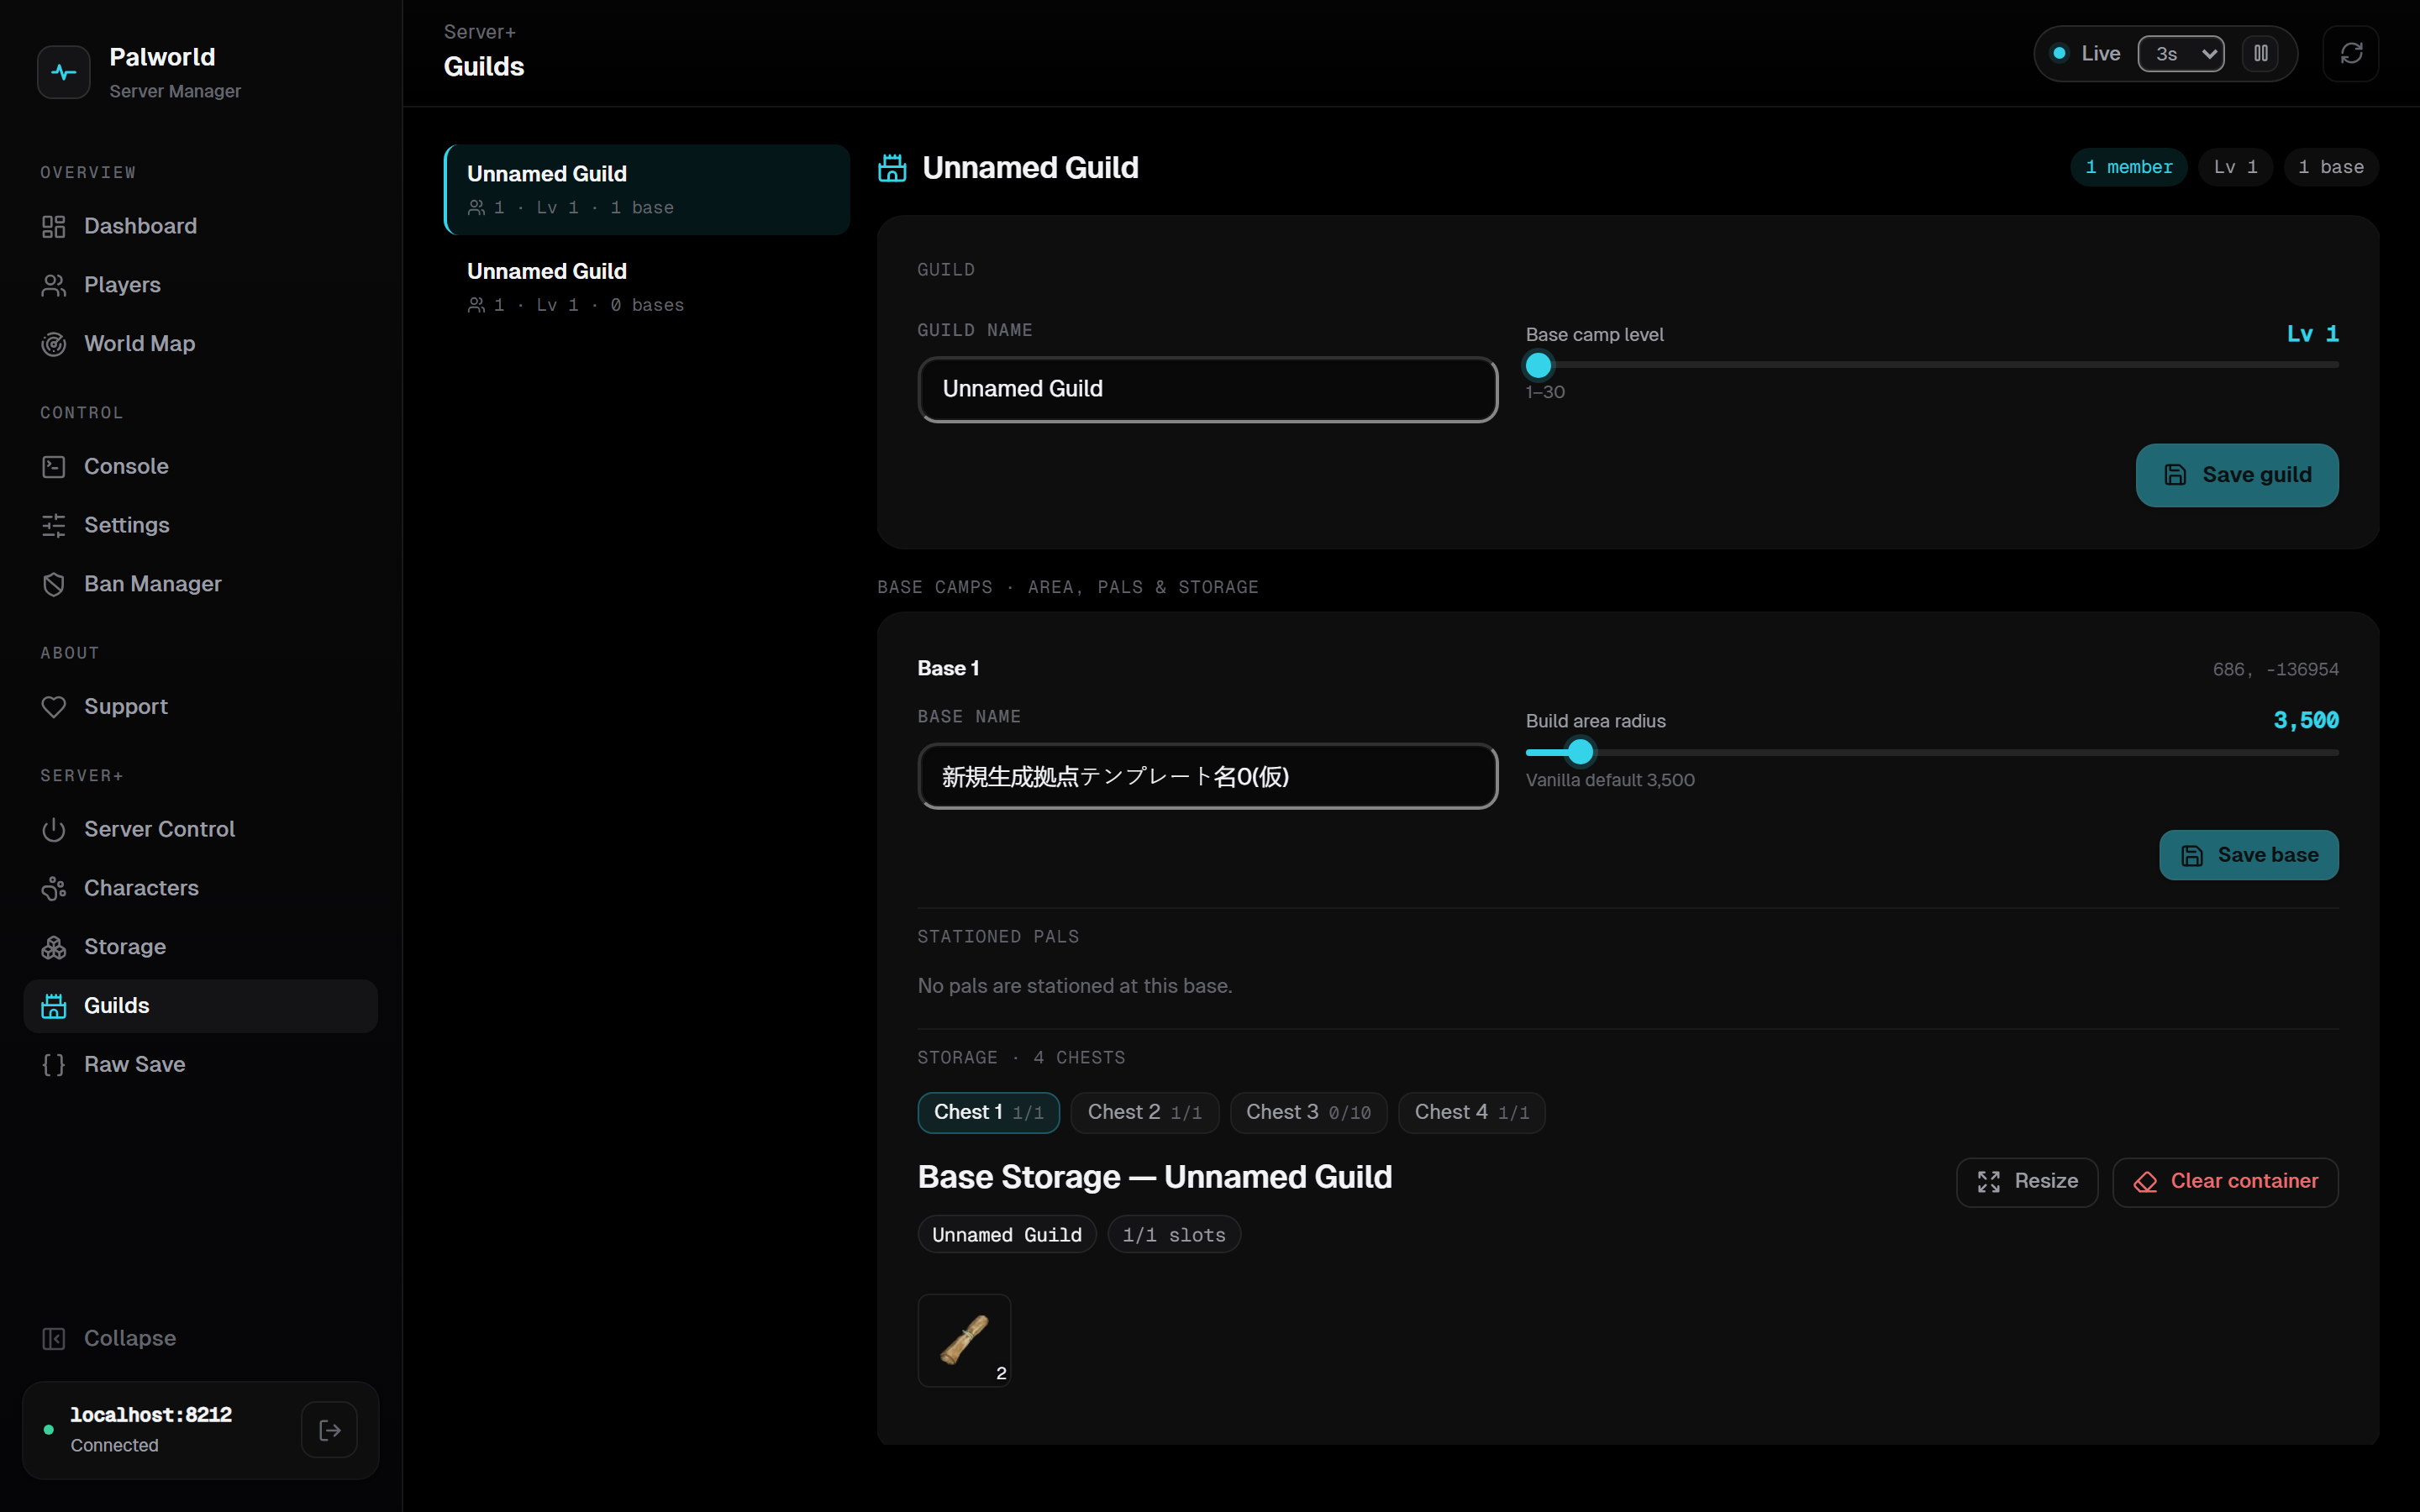
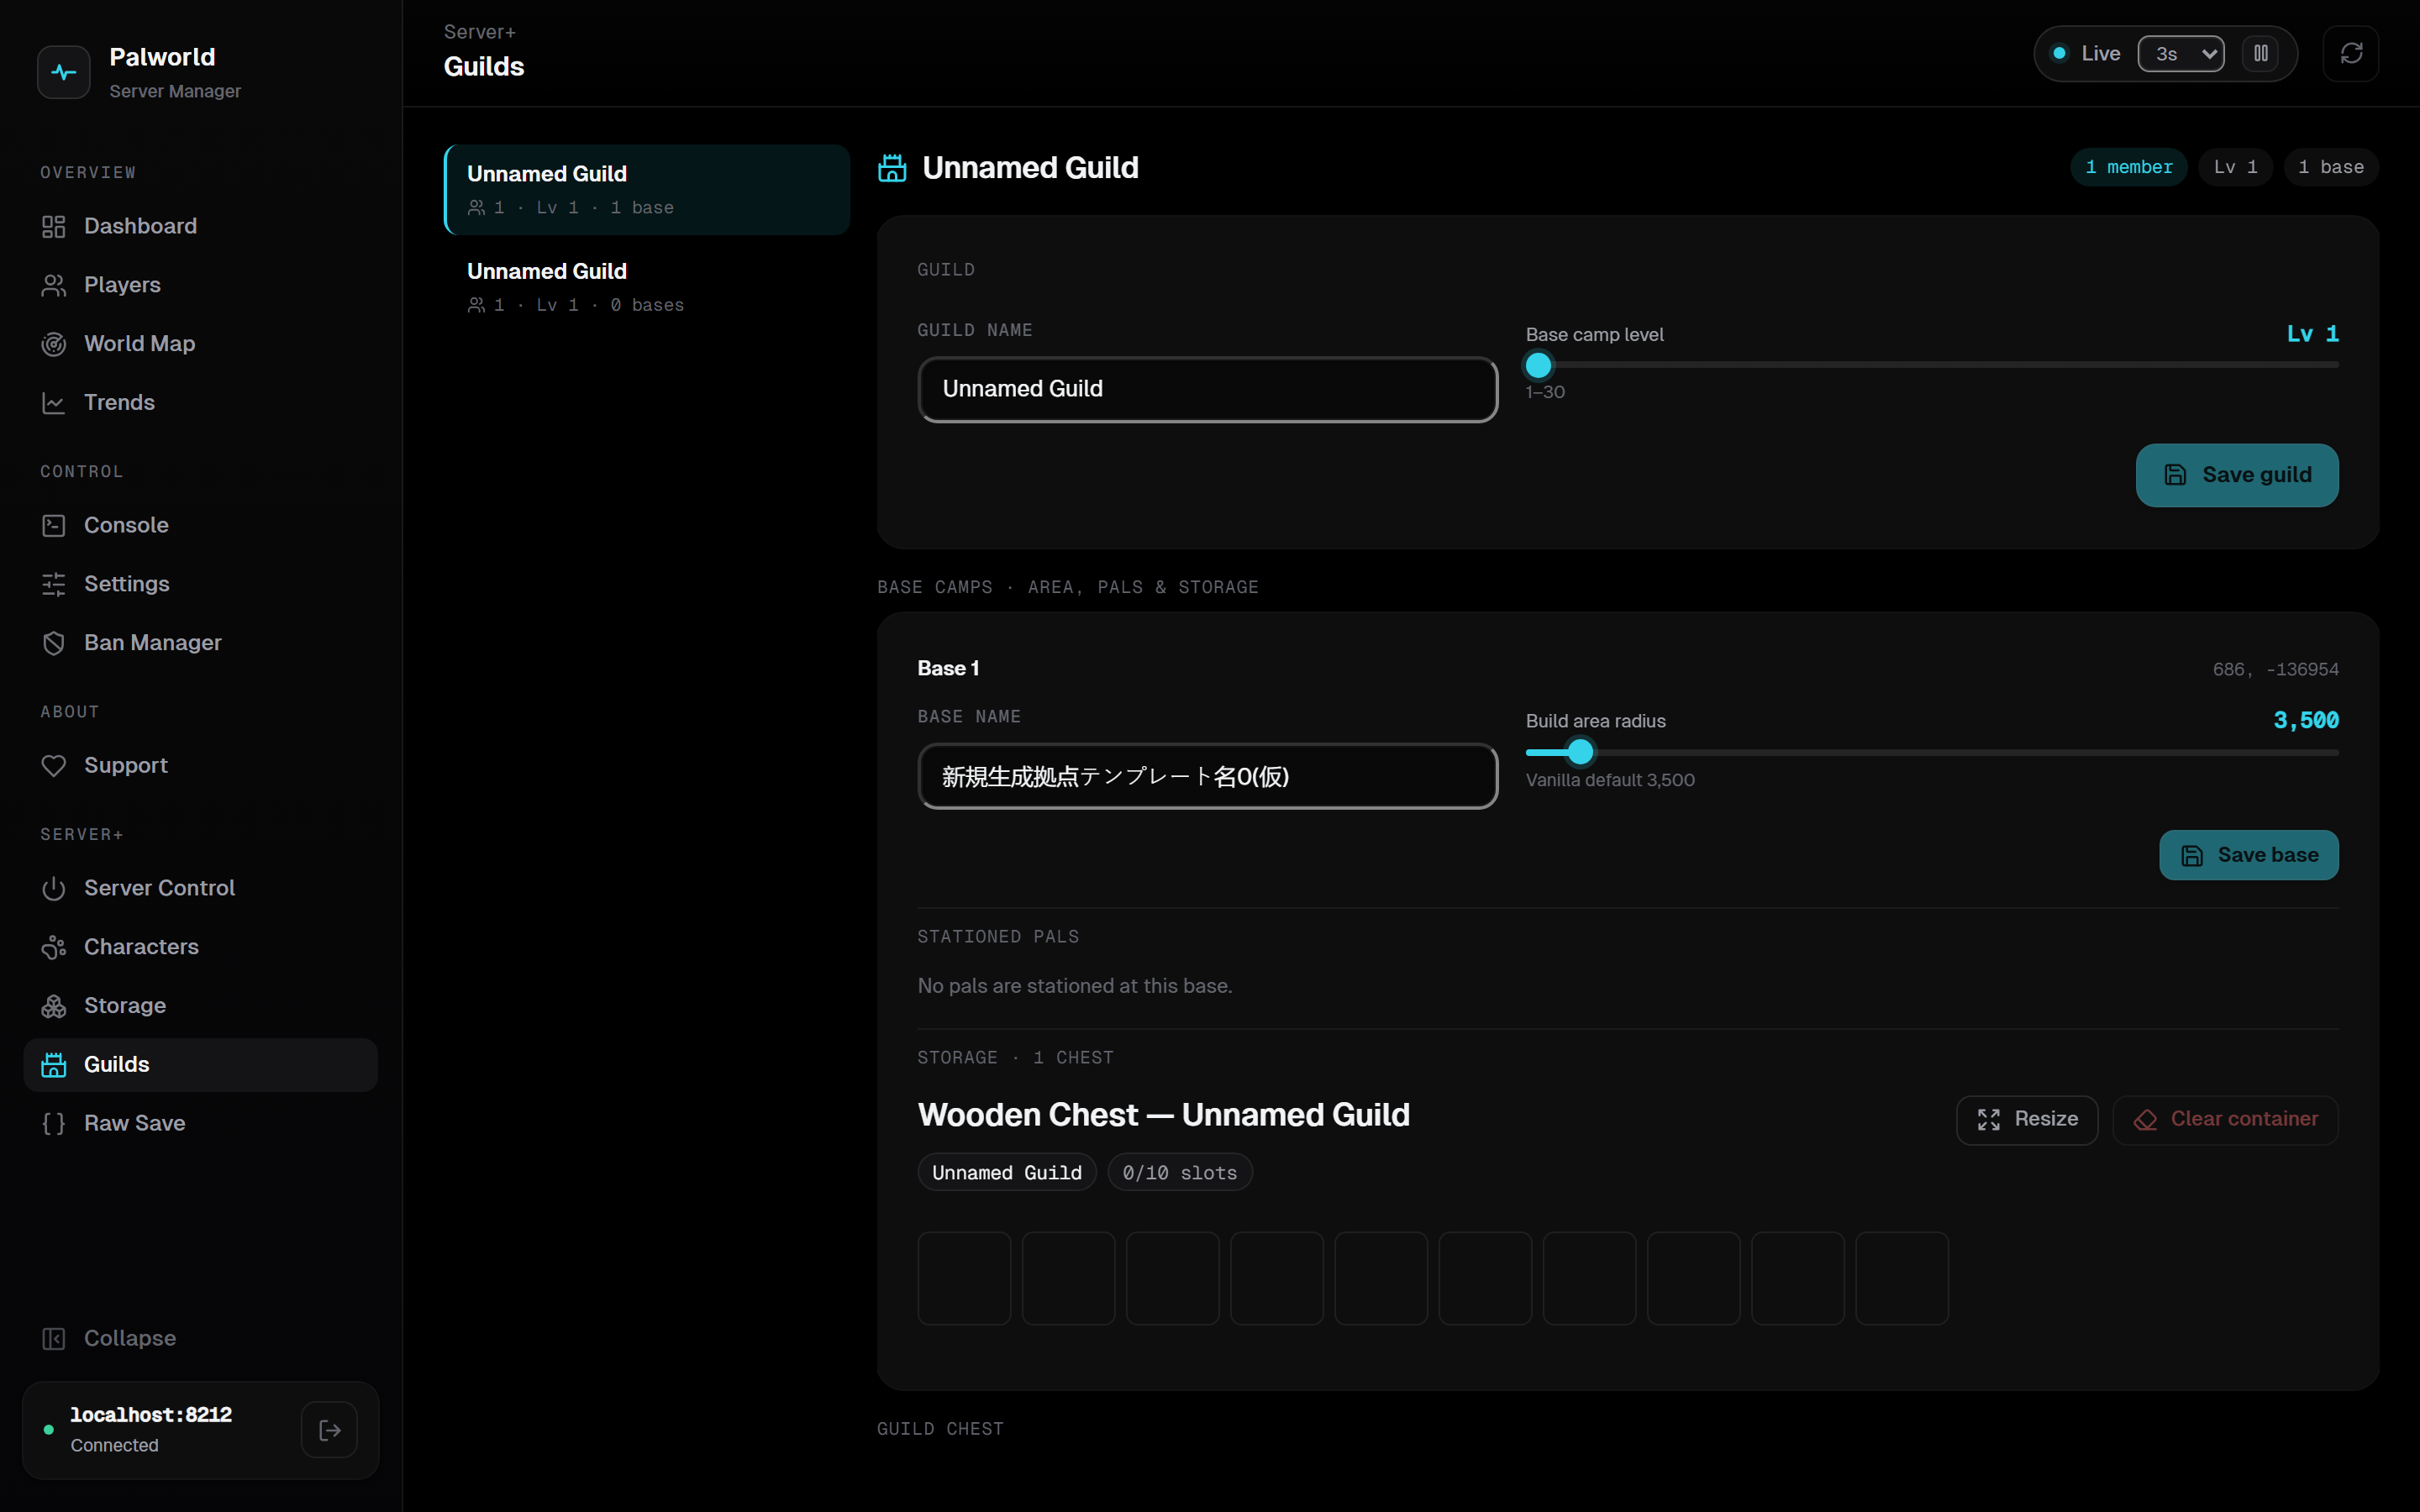
fix(guilds): real names for base storage chests, and drop ground loot
Base storage tabs/headers said "Chest 1/2/3/4" and included dropped ground
items. Now:
- The decoder captures each storage object's MapObjectId (the build-object
  type, e.g. "ItemChest") and excludes CommonDropItem3D — ground-loot pickups
  that carry an ItemContainer module but aren't storage the owner manages.
- The bridge surfaces object_name per base-storage container; the UI shows the
  real name ("Wooden Chest") in the chest tabs and the pane header, falling back
  to "Chest N" only when the type is unknown.

Adds chestName() (known-name map + CamelCase humanize) with tests, and a decoder
test asserting MapObjectId capture.

diff --git a/src/lib/containers.ts b/src/lib/containers.ts
@@ -17,13 +17,32 @@ const BAG: Record<
   food_equip: { label: "Food", order: 4 },
 };
 
+/** Friendly in-game names for base-storage build objects (their `MapObjectId`). */
+const OBJECT_NAMES: Record<string, string> = {
+  ItemChest: "Wooden Chest",
+  DispenseItem: "Feed Box",
+};
+
+/**
+ * Real display name of a base-storage chest from its build-object `MapObjectId`
+ * (e.g. `ItemChest` → "Wooden Chest"), or `null` if unknown. Falls back to
+ * humanizing the raw id (split CamelCase, drop a trailing dimension suffix).
+ */
+export function chestName(objectName?: string): string | null {
+  if (!objectName) return null;
+  if (OBJECT_NAMES[objectName]) return OBJECT_NAMES[objectName];
+  const base = objectName.replace(/\d+[dD]?$/, "").replace(/_+/g, " ").trim();
+  return (base || objectName).replace(/([a-z0-9])([A-Z])/g, "$1 $2").trim();
+}
+
 /** Rail/header label for a container. */
 export function containerLabel(c: ContainerInfo): string {
   if (c.kind === "guild_chest") {
     return c.guild_name ? `Guild Chest — ${c.guild_name}` : "Guild Chest";
   }
   if (c.kind === "base_storage") {
-    return c.guild_name ? `Base Storage — ${c.guild_name}` : "Base Storage";
+    const name = chestName(c.object_name) ?? "Base Storage";
+    return c.guild_name ? `${name} — ${c.guild_name}` : name;
   }
   return BAG[c.kind]?.label ?? c.label;
 }

diff --git a/src/lib/containers.test.ts b/src/lib/containers.test.ts
@@ -1,5 +1,6 @@
 import { describe, expect, it } from "vitest";
 import {
+  chestName,
   containerLabel,
   containerOwner,
   groupContainers,
@@ -79,6 +80,20 @@ describe("container labels", () => {
     expect(containerOwner(container({ kind: "common", owner_name: "Riko" }))).toBe("Riko");
     expect(containerOwner(container({ kind: "guild_chest", guild_name: "Night Raid" }))).toBe("Night Raid");
     expect(containerOwner(container({ kind: "common" }))).toBe("Unknown player");
+  });
+});
+
+describe("chestName", () => {
+  it("maps known build objects to their in-game names", () => {
+    expect(chestName("ItemChest")).toBe("Wooden Chest");
+    expect(chestName("DispenseItem")).toBe("Feed Box");
+  });
+  it("humanizes unknown ids (CamelCase split, trailing dimension dropped)", () => {
+    expect(chestName("RefinedMetalChest")).toBe("Refined Metal Chest");
+    expect(chestName("CommonDropItem3D")).toBe("Common Drop Item");
+  });
+  it("returns null for a missing object name", () => {
+    expect(chestName(undefined)).toBeNull();
   });
 });
 

diff --git a/src/screens/Guilds.tsx b/src/screens/Guilds.tsx
@@ -17,6 +17,7 @@ import { EmptyState } from "../components/EmptyState";
 import { Field, Input } from "../components/Field";
 import { Skeleton } from "../components/Skeleton";
 import { ContainerPane } from "./Storage";
+import { chestName } from "../lib/containers";
 import {
   useBridge,
   useBridgeContainers,
@@ -391,7 +392,7 @@ function BaseSection({
                   className={i === storeIdx ? "is-on" : ""}
                   onClick={() => setStoreIdx(i)}
                 >
-                  Chest {i + 1}
+                  {chestName(s.object_name) ?? `Chest ${i + 1}`}
                   <span>
                     {s.used}/{s.slot_num}
                   </span>

diff --git a/src/types/bridge.ts b/src/types/bridge.ts
@@ -162,6 +162,9 @@ export interface ContainerInfo {
   /** Vanilla default slot count for this kind, when reliably known (so the UI
    *  can flag a container resized off its default). Absent when it varies. */
   default_slot_num?: number;
+  /** Build-object type of a base storage chest (e.g. "ItemChest"), for its real
+   *  name. Only present for base storage. */
+  object_name?: string;
   used: number;
   slots: ItemContainerSlot[];
 }

diff --git a/bridge/src/save/map_object.rs b/bridge/src/save/map_object.rs
@@ -28,18 +28,31 @@ use super::reader::Reader;
 
 const ITEM_CONTAINER_MODULE: &str = "EPalMapObjectConcreteModelModuleType::ItemContainer";
 
-/// Build a `base_id → [storage container id]` index from `MapObjectSaveData`.
-/// A non-array property, or objects missing the fields, are skipped rather than
-/// failing the load.
-pub fn decode_base_storage(map_objects: &Property) -> HashMap<Uuid, Vec<Uuid>> {
-    let mut out: HashMap<Uuid, Vec<Uuid>> = HashMap::new();
+/// `MapObjectId`s that carry an ItemContainer module but aren't base storage the
+/// owner manages — dropped ground loot. Excluded from the storage list.
+const EXCLUDED_OBJECTS: &[&str] = &["CommonDropItem3D"];
+
+/// Index of base storage: `base_id → [container id]`, plus each container's
+/// `MapObjectId` (the build-object identifier, e.g. `WoodChest`) for a real name.
+pub struct BaseStorage {
+    /// Which storage containers belong to each base camp.
+    pub by_base: HashMap<Uuid, Vec<Uuid>>,
+    /// Container id → its map object's `MapObjectId` (build-object type).
+    pub names: HashMap<Uuid, String>,
+}
+
+/// Build the base-storage index from `MapObjectSaveData`. A non-array property,
+/// or objects missing the fields, are skipped rather than failing the load.
+pub fn decode_base_storage(map_objects: &Property) -> BaseStorage {
+    let mut by_base: HashMap<Uuid, Vec<Uuid>> = HashMap::new();
+    let mut names: HashMap<Uuid, String> = HashMap::new();
 
     let values = match map_objects {
         Property::Array {
             value: ArrayValue::Structs { values, .. },
             ..
         } => values,
-        _ => return out,
+        _ => return BaseStorage { by_base, names },
     };
 
     for v in values {
@@ -57,6 +70,14 @@ pub fn decode_base_storage(map_objects: &Property) -> HashMap<Uuid, Vec<Uuid>> {
         else {
             continue;
         };
+
+        // The build-object identifier (e.g. "ItemChest") — the object's real name.
+        let object_id = obj.get("MapObjectId").and_then(key_str).map(str::to_string);
+        // Ground-loot pickups also carry an ItemContainer module tied to a base,
+        // but they aren't storage the owner manages — skip them.
+        if object_id.as_deref().is_some_and(|id| EXCLUDED_OBJECTS.contains(&id)) {
+            continue;
+        }
 
         // Its ItemContainer module's target container (guid at offset 0).
         let Some(module_map) = obj
@@ -78,11 +99,14 @@ pub fn decode_base_storage(map_objects: &Property) -> HashMap<Uuid, Vec<Uuid>> {
                 .and_then(Property::as_bytes)
                 .and_then(|raw| guid_at(raw, 0))
             {
-                out.entry(base_id).or_default().push(cid);
+                by_base.entry(base_id).or_default().push(cid);
+                if let Some(name) = &object_id {
+                    names.insert(cid, name.clone());
+                }
             }
         }
     }
-    out
+    BaseStorage { by_base, names }
 }
 
 /// The 16-byte GUID at `offset` in `raw` (same LE→BE word swap as
@@ -147,6 +171,7 @@ mod tests {
             vec![
                 ("Model".to_string(), model),
                 ("ConcreteModel".to_string(), concrete),
+                ("MapObjectId".to_string(), Property::Str("WoodChest".to_string())),
             ]
             .into_iter()
             .collect(),
@@ -163,12 +188,15 @@ mod tests {
 
         let base_id = Uuid::parse_str("00000007-0000-0000-0000-000000000000").unwrap();
         let container_id = Uuid::parse_str("00000009-0000-0000-0000-000000000000").unwrap();
-        let index = decode_base_storage(&map_objects);
-        assert_eq!(index.get(&base_id), Some(&vec![container_id]));
+        let bs = decode_base_storage(&map_objects);
+        assert_eq!(bs.by_base.get(&base_id), Some(&vec![container_id]));
+        // The build-object identifier is captured as the container's real name.
+        assert_eq!(bs.names.get(&container_id).map(String::as_str), Some("WoodChest"));
     }
 
     #[test]
     fn non_array_yields_empty() {
-        assert!(decode_base_storage(&Property::Int(0)).is_empty());
+        let bs = decode_base_storage(&Property::Int(0));
+        assert!(bs.by_base.is_empty() && bs.names.is_empty());
     }
 }

diff --git a/bridge/src/save/mod.rs b/bridge/src/save/mod.rs
@@ -43,6 +43,9 @@ pub struct WorldBundle {
     pub dynamic_items: HashMap<Uuid, DynamicItem>,
     /// `GuildExtraSaveDataMap`, reduced to guild-id → guild-chest container id.
     pub guild_chests: HashMap<Uuid, Uuid>,
+    /// Base storage container id (string) → its map object's `MapObjectId`
+    /// (build-object type, e.g. "WoodChest"), for a real chest name.
+    pub base_storage_names: HashMap<String, String>,
 }
 
 /// Load a save directory's `Level.sav` into a [`World`].
@@ -109,8 +112,17 @@ pub fn load_world_with_containers(dir: &Path) -> Result<WorldBundle, SaveError> 
     // ItemContainer module points at an item container.
     let base_storage = match world_save_data.get_child("MapObjectSaveData") {
         Some(prop) => map_object::decode_base_storage(prop),
-        None => HashMap::new(),
+        None => map_object::BaseStorage {
+            by_base: HashMap::new(),
+            names: HashMap::new(),
+        },
     };
+    // Container id (string) → real build-object name (e.g. "WoodChest").
+    let base_storage_names: HashMap<String, String> = base_storage
+        .names
+        .iter()
+        .map(|(id, name)| (id.to_string(), name.clone()))
+        .collect();
 
     // Group pals by their container id so each base can list the pals stationed
     // there — a pal belongs to a base iff its `storage_id` equals the base's
@@ -153,7 +165,7 @@ pub fn load_world_with_containers(dir: &Path) -> Result<WorldBundle, SaveError> 
                         }
                     }
                 }
-                if let Some(cids) = base_storage.get(&bid) {
+                if let Some(cids) = base_storage.by_base.get(&bid) {
                     b.storage_containers = cids.iter().map(Uuid::to_string).collect();
                 }
             }
@@ -166,6 +178,7 @@ pub fn load_world_with_containers(dir: &Path) -> Result<WorldBundle, SaveError> 
         item_containers,
         dynamic_items,
         guild_chests,
+        base_storage_names,
     })
 }
 

diff --git a/bridge/psm-bridge/src/server.rs b/bridge/psm-bridge/src/server.rs
@@ -485,6 +485,10 @@ struct ContainerInfo {
     id: String,
     kind: &'static str,
     label: &'static str,
+    /// The build-object type of a base storage chest (e.g. "WoodChest"), so the
+    /// UI can show its real name instead of "Chest 1". Only set for base storage.
+    #[serde(skip_serializing_if = "Option::is_none")]
+    object_name: Option<String>,
     #[serde(skip_serializing_if = "Option::is_none")]
     owner_uid: Option<String>,
     #[serde(skip_serializing_if = "Option::is_none")]
@@ -554,6 +558,7 @@ fn container_info_from(
         id: id.to_string(),
         kind,
         label,
+        object_name: None,
         owner_uid: None,
         owner_name: None,
         guild_id: None,
@@ -617,6 +622,7 @@ async fn collect_containers(state: &ServerState) -> Result<Vec<ContainerInfo>, R
                 {
                     info.guild_id = Some(g.id.clone());
                     info.guild_name = Some(g.name.clone());
+                    info.object_name = bundle.base_storage_names.get(cid_str).cloned();
                     out.push(info);
                 }
             }

diff --git a/bridge/tests/decode_world1.rs b/bridge/tests/decode_world1.rs
@@ -241,7 +241,7 @@ fn load_world_with_containers_matches_load_world_and_has_item_containers() {
         "world1's base camp is enriched with a decoded area_range + position"
     );
     // Base ground-storage containers are discovered from MapObjectSaveData
-    // (world1's base has several built chests).
+    // (world1's base has a built chest; dropped ground loot is filtered out).
     assert!(
         bundle
             .world